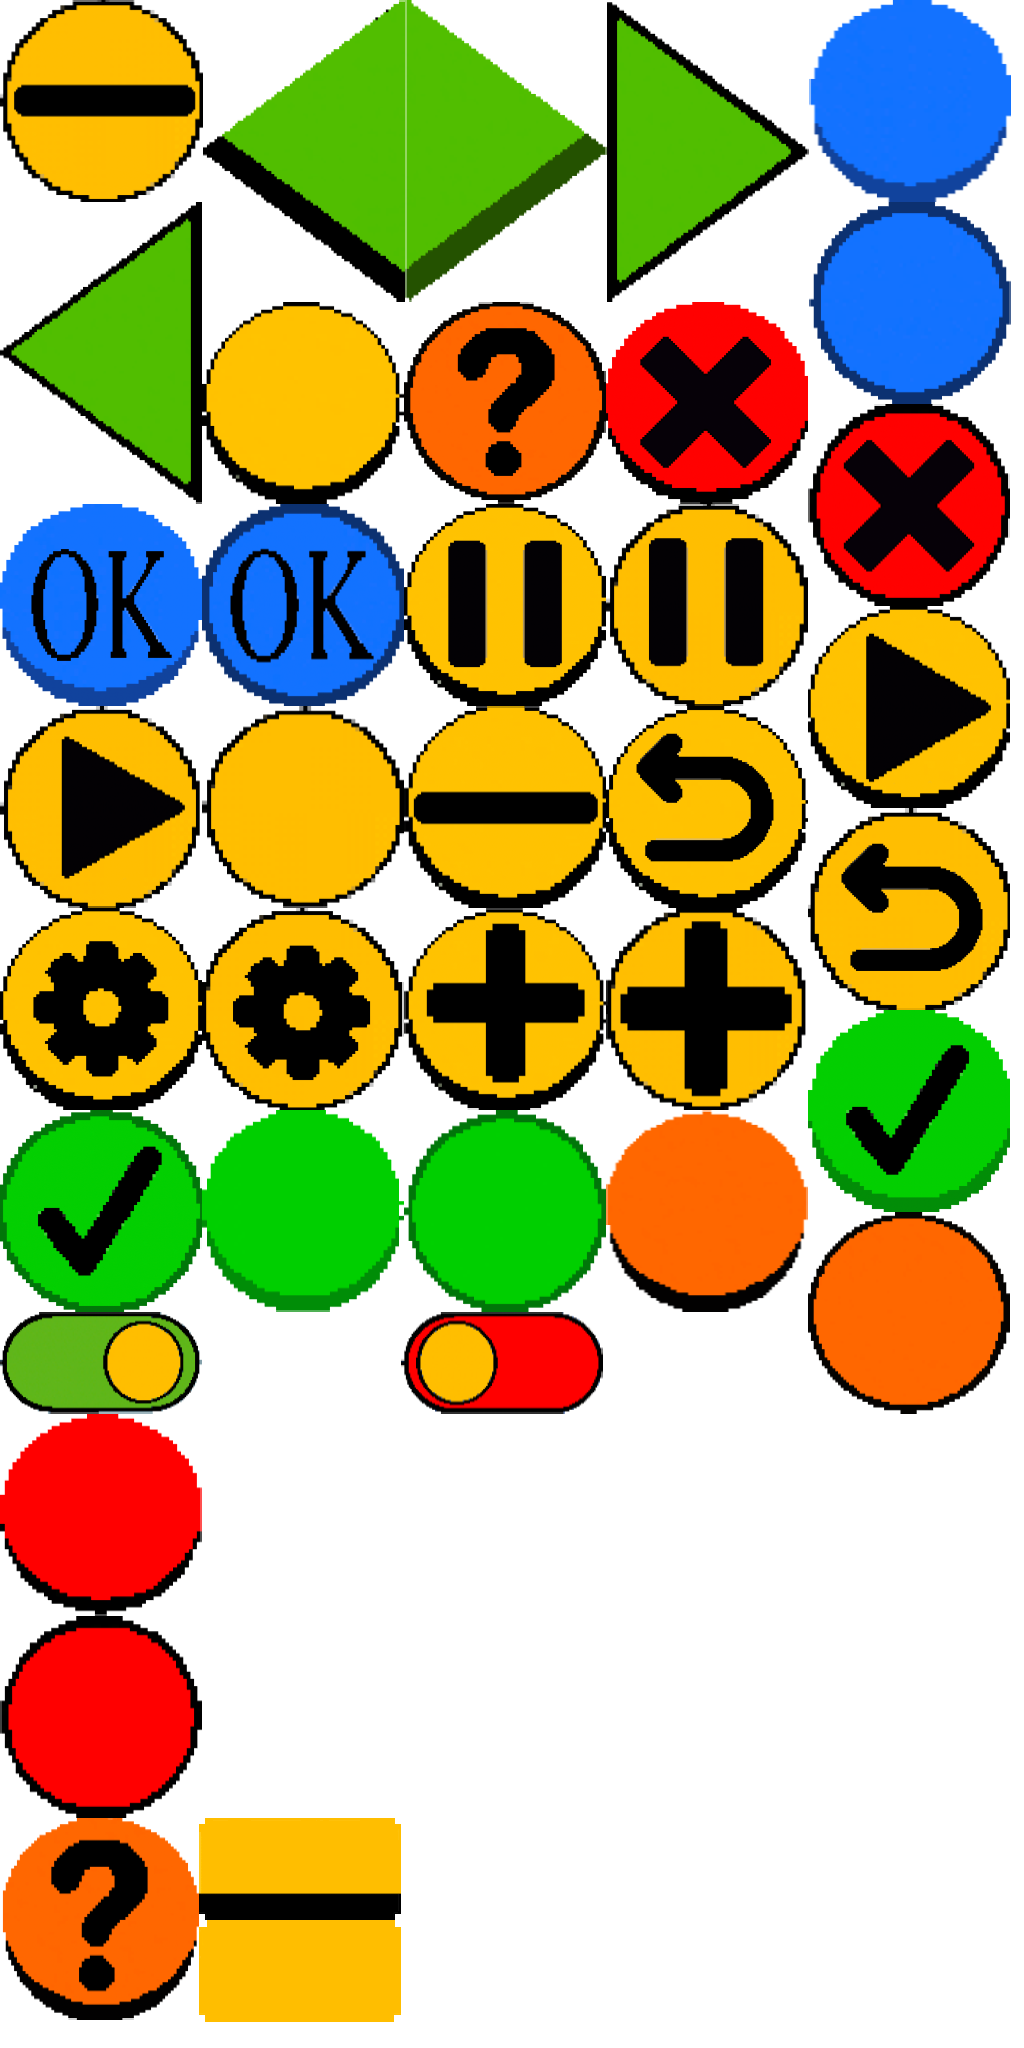
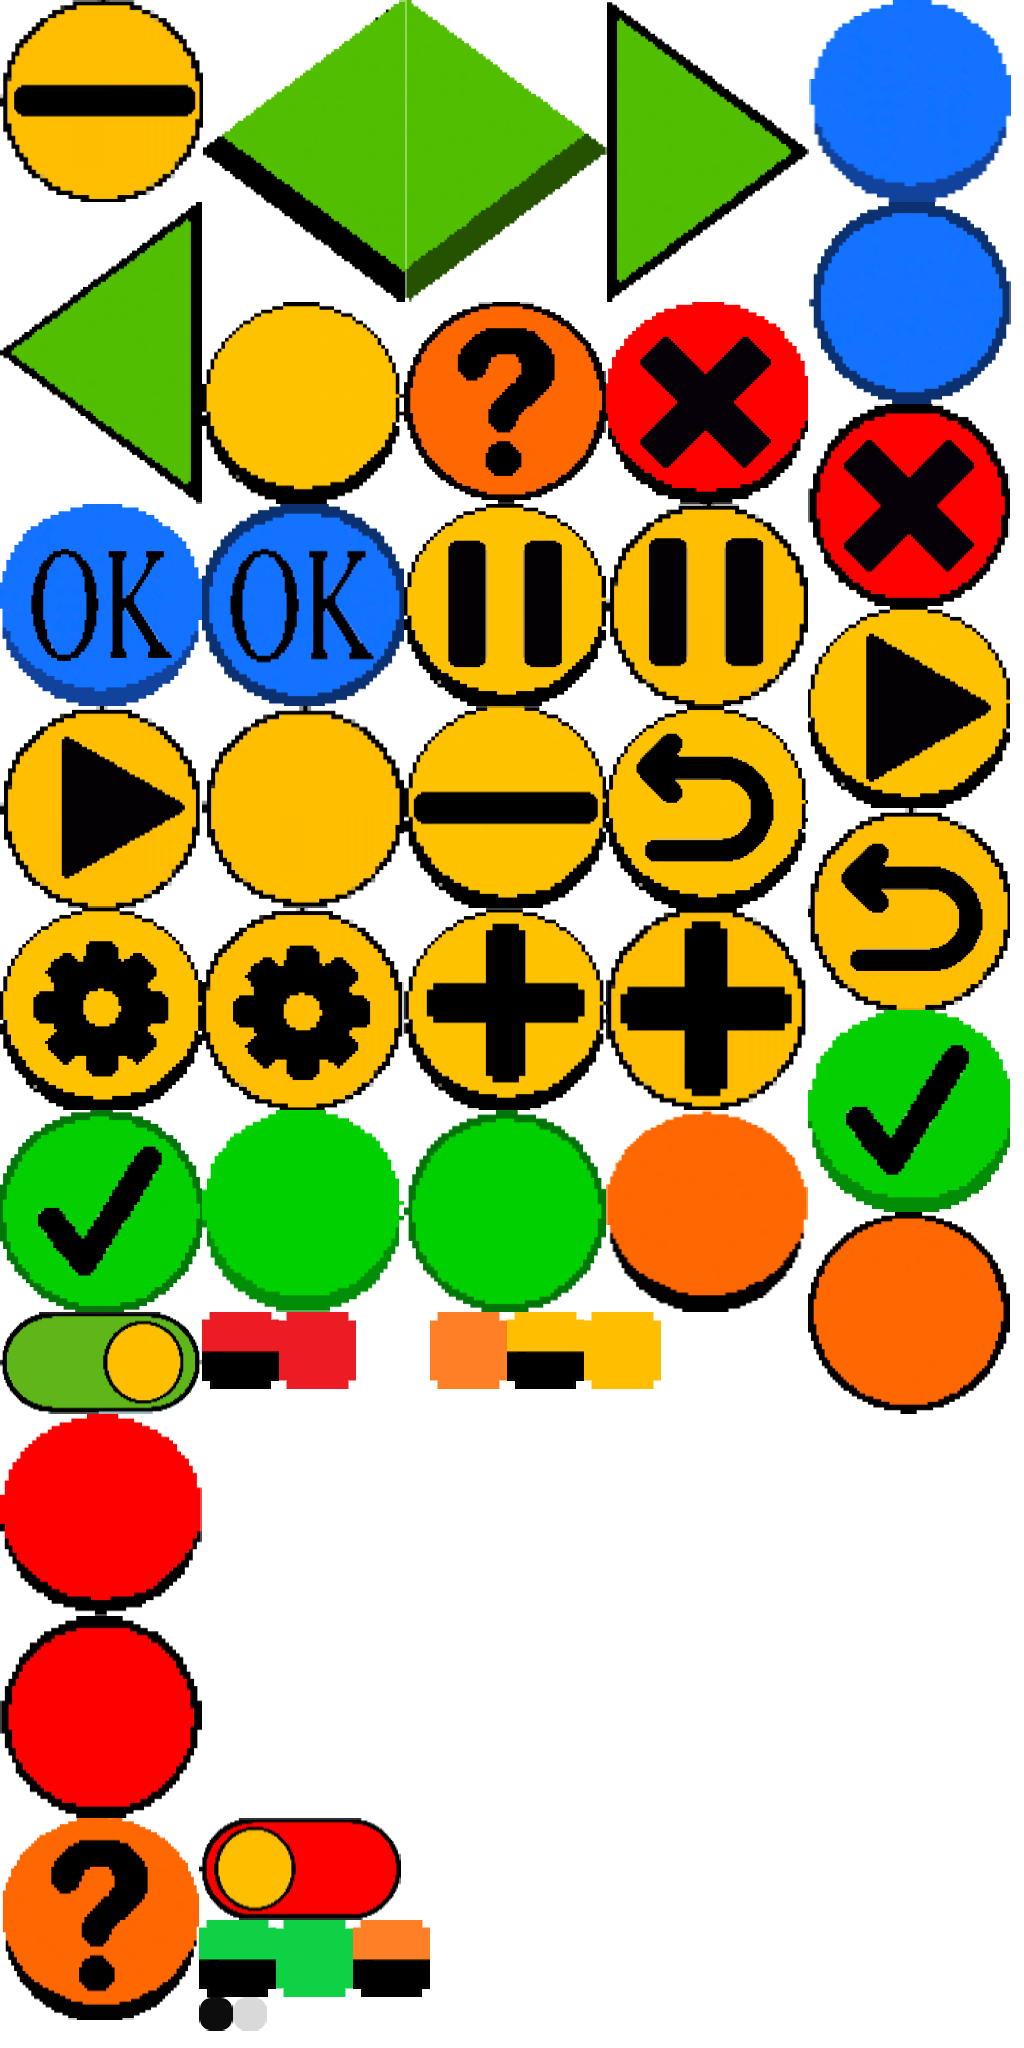
Alpha 1.6.5
Reparaci{on de assets de botones.

Changed region(s): [[0.1875, 0.875, 0.4375, 1.0], [0.375, 0.625, 0.6562, 0.6875], [0.1875, 0.625, 0.3438, 0.6875]]

diff --git a/core/src/mx/itesm/seb/Inputs/Buttons/ButtonToAboutTheDevs.java b/core/src/mx/itesm/seb/Inputs/Buttons/ButtonToAboutTheDevs.java
@@ -10,12 +10,12 @@ import mx.itesm.seb.Videogame;
 public class ButtonToAboutTheDevs extends EnhancedTextButton {
 
     public ButtonToAboutTheDevs(Videogame videogame, String text, Skin skin) {
-        super(videogame, text, skin, "rectangle");
+        super(videogame, text, skin, "yellowRectangle");
         this.setScreen();
     }
 
     public ButtonToAboutTheDevs(Videogame videogame, Skin skin) {
-        super(videogame, "The Devs", skin, "rectangle");
+        super(videogame, "The Devs", skin, "yellowRectangle");
         this.setScreen();
     }
 

diff --git a/core/src/mx/itesm/seb/Inputs/Buttons/ButtonToAboutTheGame.java b/core/src/mx/itesm/seb/Inputs/Buttons/ButtonToAboutTheGame.java
@@ -9,12 +9,12 @@ import mx.itesm.seb.Videogame;
 public class ButtonToAboutTheGame extends EnhancedTextButton {
 
     public ButtonToAboutTheGame(Videogame videogame, String text, Skin skin) {
-        super(videogame, text, skin, "rectangle");
+        super(videogame, text, skin, "yellowRectangle");
         this.setScreen();
     }
 
     public ButtonToAboutTheGame(Videogame videogame, Skin skin) {
-        super(videogame, "The Game", skin, "rectangle");
+        super(videogame, "The Game", skin, "yellowRectangle");
         this.setScreen();
     }
 

diff --git a/core/src/mx/itesm/seb/Inputs/Buttons/ButtonToTutorial.java b/core/src/mx/itesm/seb/Inputs/Buttons/ButtonToTutorial.java
@@ -10,12 +10,12 @@ import mx.itesm.seb.Videogame;
 public class ButtonToTutorial extends EnhancedTextButton {
 
     public ButtonToTutorial(Videogame videogame, String text, Skin skin) {
-        super(videogame, text, skin, "rectangle");
+        super(videogame, text, skin, "yellowRectangle");
         this.setScreen();
     }
 
     public ButtonToTutorial(Videogame videogame, Skin skin) {
-        super(videogame, "Tutorial", skin, "rectangle");
+        super(videogame, "Tutorial", skin, "yellowRectangle");
         this.setScreen();
     }
 

diff --git a/core/src/mx/itesm/seb/Inputs/Buttons/ButtonToDefense.java b/core/src/mx/itesm/seb/Inputs/Buttons/ButtonToDefense.java
@@ -10,12 +10,12 @@ import mx.itesm.seb.Videogame;
 public class ButtonToDefense extends EnhancedTextButton {
 
     public ButtonToDefense(Videogame videogame, String text, Skin skin) {
-        super(videogame, text, skin, "rectangle");
+        super(videogame, text, skin, "yellowRectangle");
         this.setScreen();
     }
 
     public ButtonToDefense(Videogame videogame, Skin skin) {
-        super(videogame, "Defense", skin, "rectangle");
+        super(videogame, "Defense", skin, "yellowRectangle");
         this.setScreen();
     }
 

diff --git a/core/src/mx/itesm/seb/Inputs/Buttons/ButtonToSurvive.java b/core/src/mx/itesm/seb/Inputs/Buttons/ButtonToSurvive.java
@@ -10,12 +10,12 @@ import mx.itesm.seb.Videogame;
 public class ButtonToSurvive extends EnhancedTextButton {
 
     public ButtonToSurvive(Videogame videogame, String text, Skin skin) {
-        super(videogame, text, skin, "rectangle");
+        super(videogame, text, skin, "yellowRectangle");
         this.setScreen();
     }
 
     public ButtonToSurvive(Videogame videogame, Skin skin) {
-        super(videogame, "Survive", skin, "rectangle");
+        super(videogame, "Survive", skin, "yellowRectangle");
         this.setScreen();
     }
 
